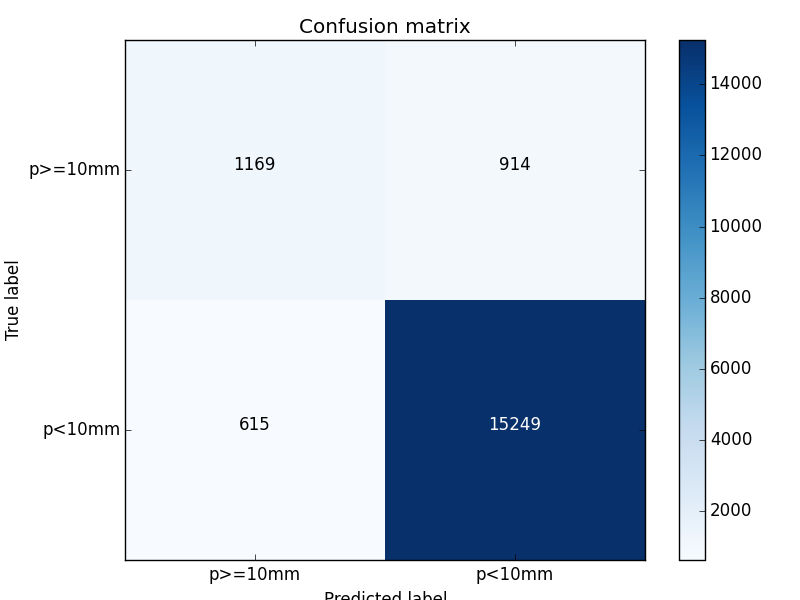
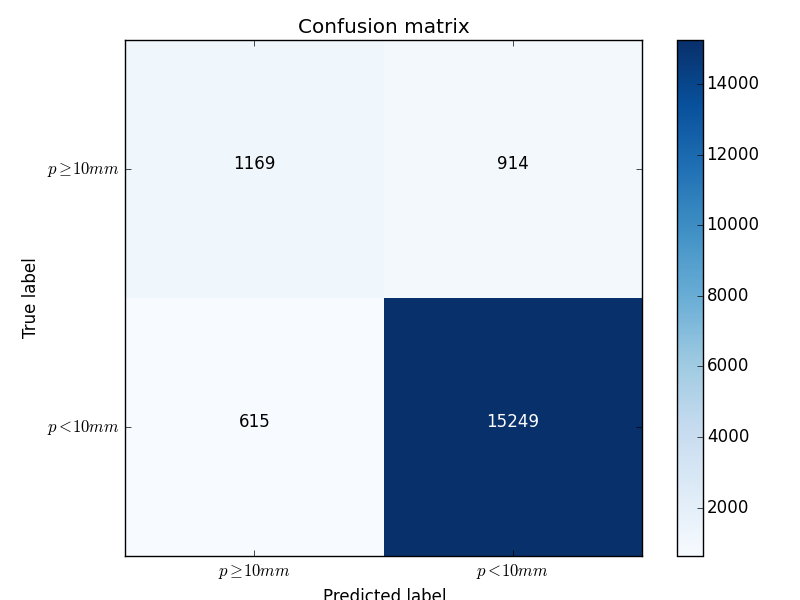
added score evaluation & comparison with benchmark

diff --git a/training/eval_models.py b/training/eval_models.py
@@ -2,6 +2,7 @@
 
 from sklearn.metrics import accuracy_score
 from sklearn.metrics import confusion_matrix
+from sklearn.metrics import classification_report
 from sklearn.metrics import roc_auc_score
 from sklearn.metrics import roc_curve, auc
 
@@ -17,8 +18,6 @@ import glob
 import numpy as np
 import re
 import itertools
-#import matplotlib
-#matplotlib.use('Agg')
 import matplotlib.pyplot as plt
 
 def construct_np_arrays(datdir, runs, model_data_np):
@@ -62,11 +61,9 @@ def setup_cnn():
     """
     network = input_data(shape=[None, 28, 28, 21], name='input')
     network = conv_2d(network, 32, 3, activation='relu', regularizer="L2")
-    #network = conv_2d(network, 32, 3, activation='relu', regularizer="L2")
     network = max_pool_2d(network, 2)
 
     network = conv_2d(network, 64, 3, activation='relu', regularizer="L2")
-    #network = conv_2d(network, 64, 3, activation='relu', regularizer="L2")
     network = max_pool_2d(network, 2)
 
     network = fully_connected(network, 128, activation='tanh')
@@ -87,6 +84,7 @@ def plot_confusion_matrix(cm, classes,
     """
     This function prints and plots the confusion matrix.
     Normalization can be applied by setting `normalize=True`.
+    Adapted from http://scikit-learn.org/stable/auto_examples/model_selection/plot_confusion_matrix.html#sphx-glr-auto-examples-model-selection-plot-confusion-matrix-py
     """
     plt.imshow(cm, interpolation='nearest', cmap=cmap)
     plt.title(title)
@@ -103,7 +101,7 @@ def plot_confusion_matrix(cm, classes,
 
     print(cm)
 
-    thresh = 0.75*cm.max()
+    thresh = 0.85*cm.max()
     for i, j in itertools.product(range(cm.shape[0]), range(cm.shape[1])):
         plt.text(j, i, cm[i, j],
                  horizontalalignment="center",
@@ -112,6 +110,23 @@ def plot_confusion_matrix(cm, classes,
     plt.tight_layout()
     plt.ylabel('True label')
     plt.xlabel('Predicted label')
+
+def calculate_scores(valid_y, pred_y, valid_Y_np, pred_prob):
+    """
+    Calculates Accuracy, Confusion matrix, classification report and roc/auc
+    :param valid_y: true label (as a 1D-list)
+    :param pred_y: predicted label (as a 1D-list)
+    :param valid_Y_np: true label (as a 1-D numpy array)
+    :param pred_prob: predicted probability (as a 1-D numpy array)
+    :return: false positive rate, true positive rate, area under curve
+    """
+    print('Accuracy: ', accuracy_score(valid_y,pred_y))
+    print('Confusion matrix: ', confusion_matrix(valid_y,pred_y))
+    print(classification_report(valid_y,pred_y,target_names = ['p<10mm','p>=10mm']))
+    
+    fpr, tpr, _ = roc_curve(valid_Y_np,pred_prob)
+    return fpr, tpr, auc(fpr,tpr)
+
 
 def main(region):
 
@@ -132,55 +147,58 @@ def main(region):
     y_score = np.array(pred)
     predicted_label = [round(item) for item in y_score[:,0]]
     valid_label = [item for item in Y[:,0]]
-    print(valid_label)
     
+    print('***** CNN *****')
     # calculate scores
-    print('Accuracy: ', accuracy_score(valid_label,predicted_label))
-    print('Confusion matrix: ', confusion_matrix(valid_label,predicted_label))
+    fpr, tpr, roc_auc = calculate_scores(valid_label, predicted_label,\
+                                        Y[:,0], y_score[:,0])
 
-    # calculate roc curve
-    fpr, tpr, _ = roc_curve(Y[:,0],y_score[:,0])
-    roc_auc = auc(fpr,tpr)
-
-    """
     # get benchmark
     benchmark_files = sorted(glob.glob(datdir + 'benchmark_prob_*'))
     pred_bench,Y_bench = construct_np_arrays(datdir,benchmark_files,np.empty((0,2),int))
-    predicted_label_bench = [item.argmax() for item in pred_bench]
-    valid_label_bench = [item.argmax() for item in Y_bench]
+    predicted_label_bench = [round(item) for item in pred_bench[:,0]]
+    valid_label_bench = [item for item in Y_bench[:,0]]
 
+    print('***** BENCHMARK *****')
     # calculate scores
-    print('Accuracy: ', accuracy_score(valid_label_bench,predicted_label_bench))
-    print('Confusion matrix: ', confusion_matrix(valid_label_bench,predicted_label_bench))
+    fpr_bench, tpr_bench, roc_auc_bench = calculate_scores(valid_label_bench,\
+                                         predicted_label_bench, Y_bench[:,0], pred_bench[:,0])
 
-    # calculate roc_curve
-    fpr_bench, tpr_bench, _ = roc_curve(Y_bench[:,0],pred_bench[:,0])
-    roc_auc_bench = auc(fpr_bench,tpr_bench)
-    """
-
+    # plot roc curves
     outdir = '/home/silviar/Dokumente/Abschlussarbeit/training/models/'
     plt.figure()
-    plt.plot(fpr,tpr, color = 'deeppink', lw = 2, label = 'class 1 (area = %0.2f)'\
+    plt.plot(fpr,tpr, color = 'deeppink', lw = 2, label = 'CNN (area = %0.2f)'\
             % roc_auc)
-    #plt.plot(fpr_bench,tpr_bench, color = 'purple', lw = 2, \
-    #        label = 'Benchmark (area = %0.2f)' % roc_auc_bench)
+    plt.plot(fpr_bench,tpr_bench, color = 'purple', lw = 2, \
+            label = 'COSMO-E (area = %0.2f)' % roc_auc_bench)
     plt.plot([0,1],[0,1], color = 'navy', lw = 2, linestyle = '--')
     plt.xlim([0.0,1.0])
     plt.ylim([0.0,1.0])
     plt.xlabel('False Positive Rate')
     plt.ylabel('True Positive Rate')
-    plt.title('ROC curve for region ' + str(region))
+    plt.title('ROC curve $P(p \geq 10mm)$, region ' + str(region))
     plt.legend(loc='lower right')
     plt.savefig(outdir + 'roc_' + str(region) + '.png')
 
+    # plot confusion matrices
     cm = confusion_matrix(valid_label,predicted_label,labels=[1,0])
     plt.figure()
-    plot_confusion_matrix(cm,['p>=10mm','p<10mm'],normalize=True,title='Normalized confusion matrix')
+    plot_confusion_matrix(cm,['$p \geq 10mm$','$p < 10mm$'],normalize=True,title='Normalized confusion matrix')
     plt.savefig(outdir + 'confusion_matrix_norm_' + str(region) + '.png')
 
     plt.figure()
-    plot_confusion_matrix(cm,['p>=10mm','p<10mm'])
+    plot_confusion_matrix(cm,['$p \geq 10mm$','$p < 10mm$'])
     plt.savefig(outdir + 'confusion_matrix_' + str(region) + '.png')
+
+    cm = confusion_matrix(valid_label_bench,predicted_label_bench,labels=[1,0])
+    plt.figure()
+    plot_confusion_matrix(cm,['$p \geq 10mm$','$p < 10mm$'],normalize=True,title='Normalized confusion matrix')
+    plt.savefig(outdir + 'benchmark_confusion_matrix_norm_' + str(region) + '.png')
+
+    plt.figure()
+    plot_confusion_matrix(cm,['$p \geq 10mm$','$p < 10mm$'])
+    plt.savefig(outdir + 'benchmark_confusion_matrix_' + str(region) + '.png')
+
 
 if __name__ == "__main__":
     # get Region
